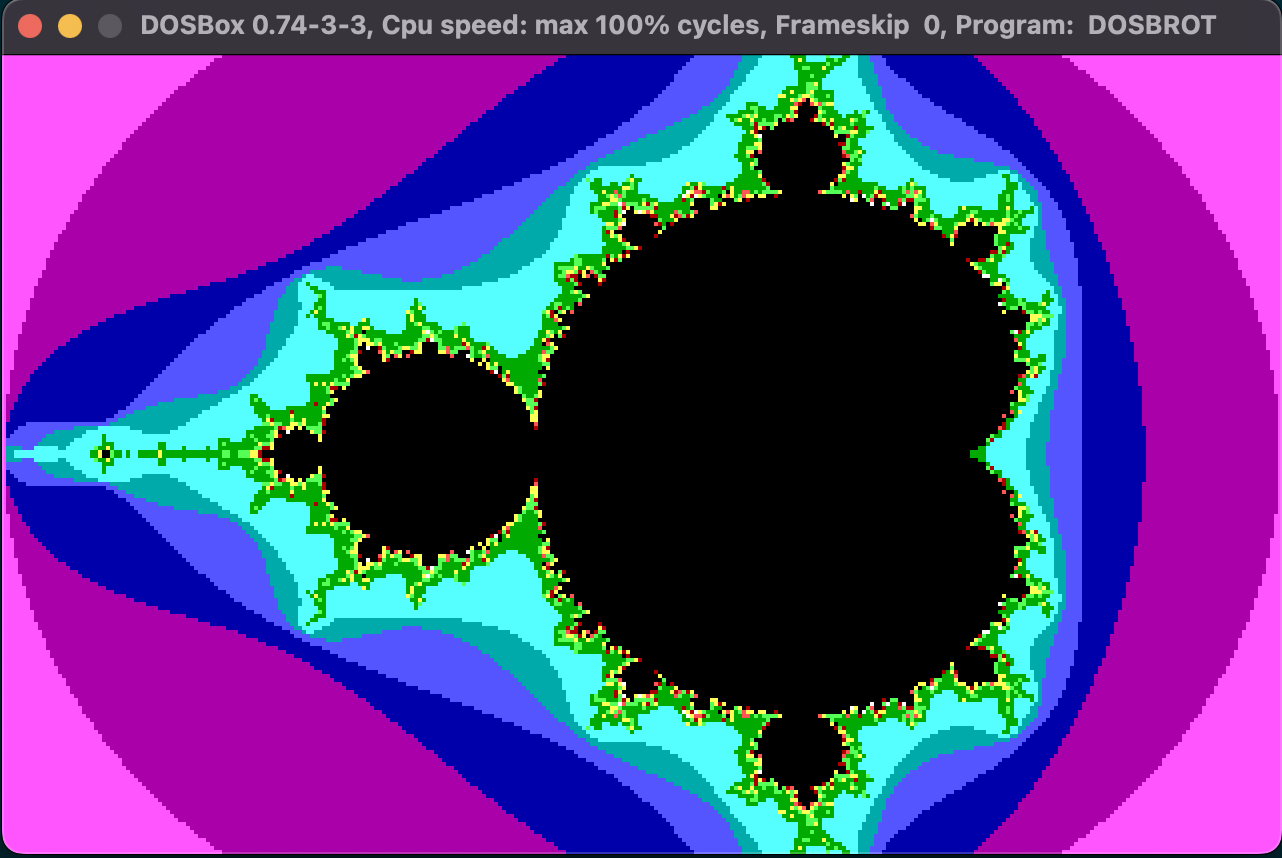
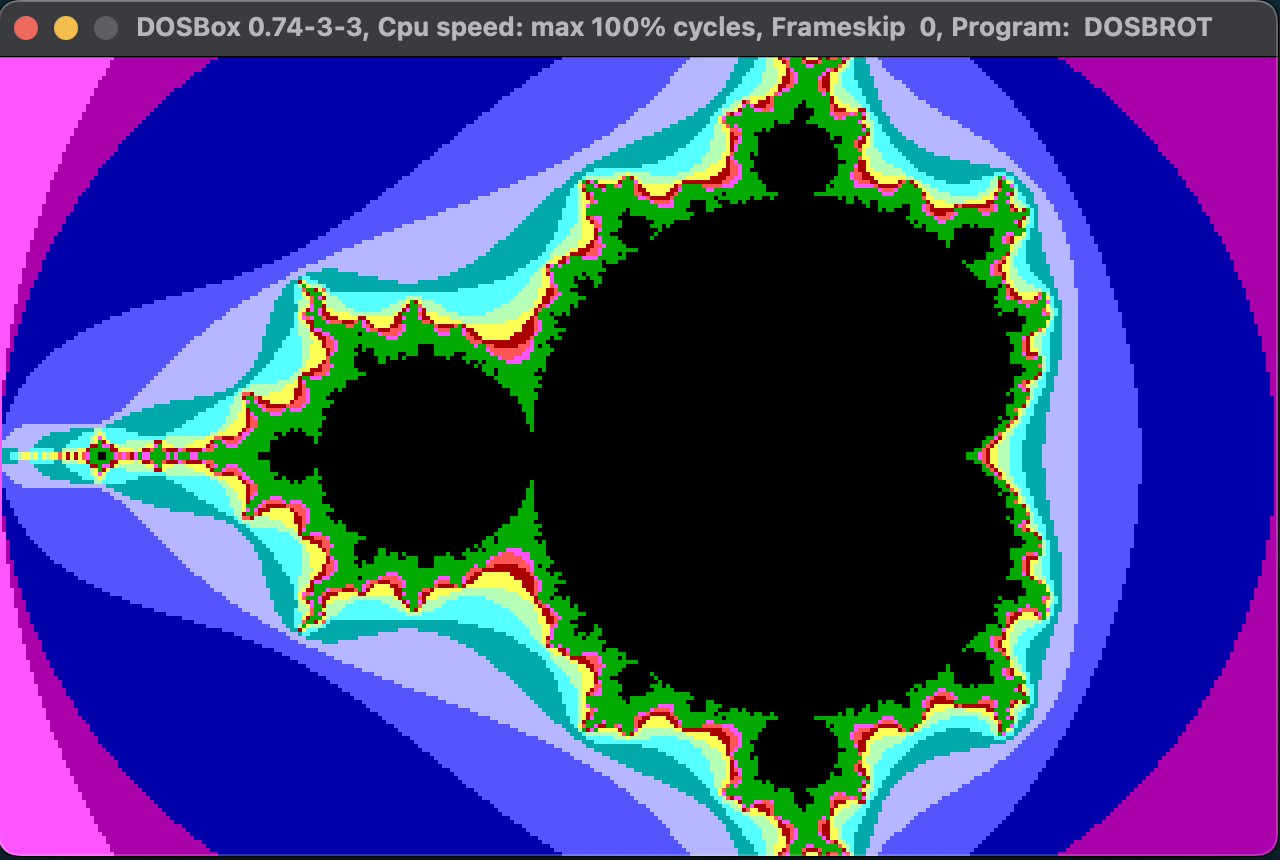
feat(DOSBROT): got rid of manuel coloring

diff --git a/SRC/DOSBROT.C b/SRC/DOSBROT.C
@@ -3,6 +3,23 @@
 #define WIDTH 320
 #define HEIGHT 200
 
+#define CLAMP(v, lo, hi) (v > lo && v < hi) ? v: (v < lo) ? lo:(v > hi) ? hi:0
+
+static char palette[12] = {
+	LIGHTMAGENTA,
+	MAGENTA,
+	BLUE,
+	LIGHTBLUE,
+	0x50,
+	CYAN,
+	LIGHTCYAN,
+	0x60,
+	YELLOW,
+    RED,
+    LIGHTRED,
+	GREEN
+};
+
 int computeMandelbrot(double re, double im, int iteration);
 
 void main(void) {
@@ -26,18 +43,12 @@ void main(void) {
 		for (x = 0; x < WIDTH; x++) {
 			value = computeMandelbrot(remin + x * dx, im, 100);
 			
-			(value == 100)	? _putpixel(x, y, BLACK): 
-			(value > 90) 	? _putpixel(x, y, WHITE): 
-			(value > 70) 	? _putpixel(x, y, LIGHTRED): 
-			(value > 50) 	? _putpixel(x, y, RED): 
-			(value > 30) 	? _putpixel(x, y, YELLOW): 
-			(value > 20) 	? _putpixel(x, y, LIGHTGREEN): 
-			(value > 10) 	? _putpixel(x, y, GREEN): 
-			(value > 5) 	? _putpixel(x, y, LIGHTCYAN):
-			(value > 4) 	? _putpixel(x, y, CYAN): 
-			(value > 3) 	? _putpixel(x, y, LIGHTBLUE): 
-			(value > 2) 	? _putpixel(x, y, BLUE): 
-			(value > 1) 	? _putpixel(x, y, MAGENTA):_putpixel(x, y, LIGHTMAGENTA); 
+			if (value == 100) 
+				_putpixel(x, y, BLACK);
+			else {
+				value = CLAMP(value, 0, 11);
+				_putpixel(x, y, palette[value]);
+			}	
 		}
 	}
 }
